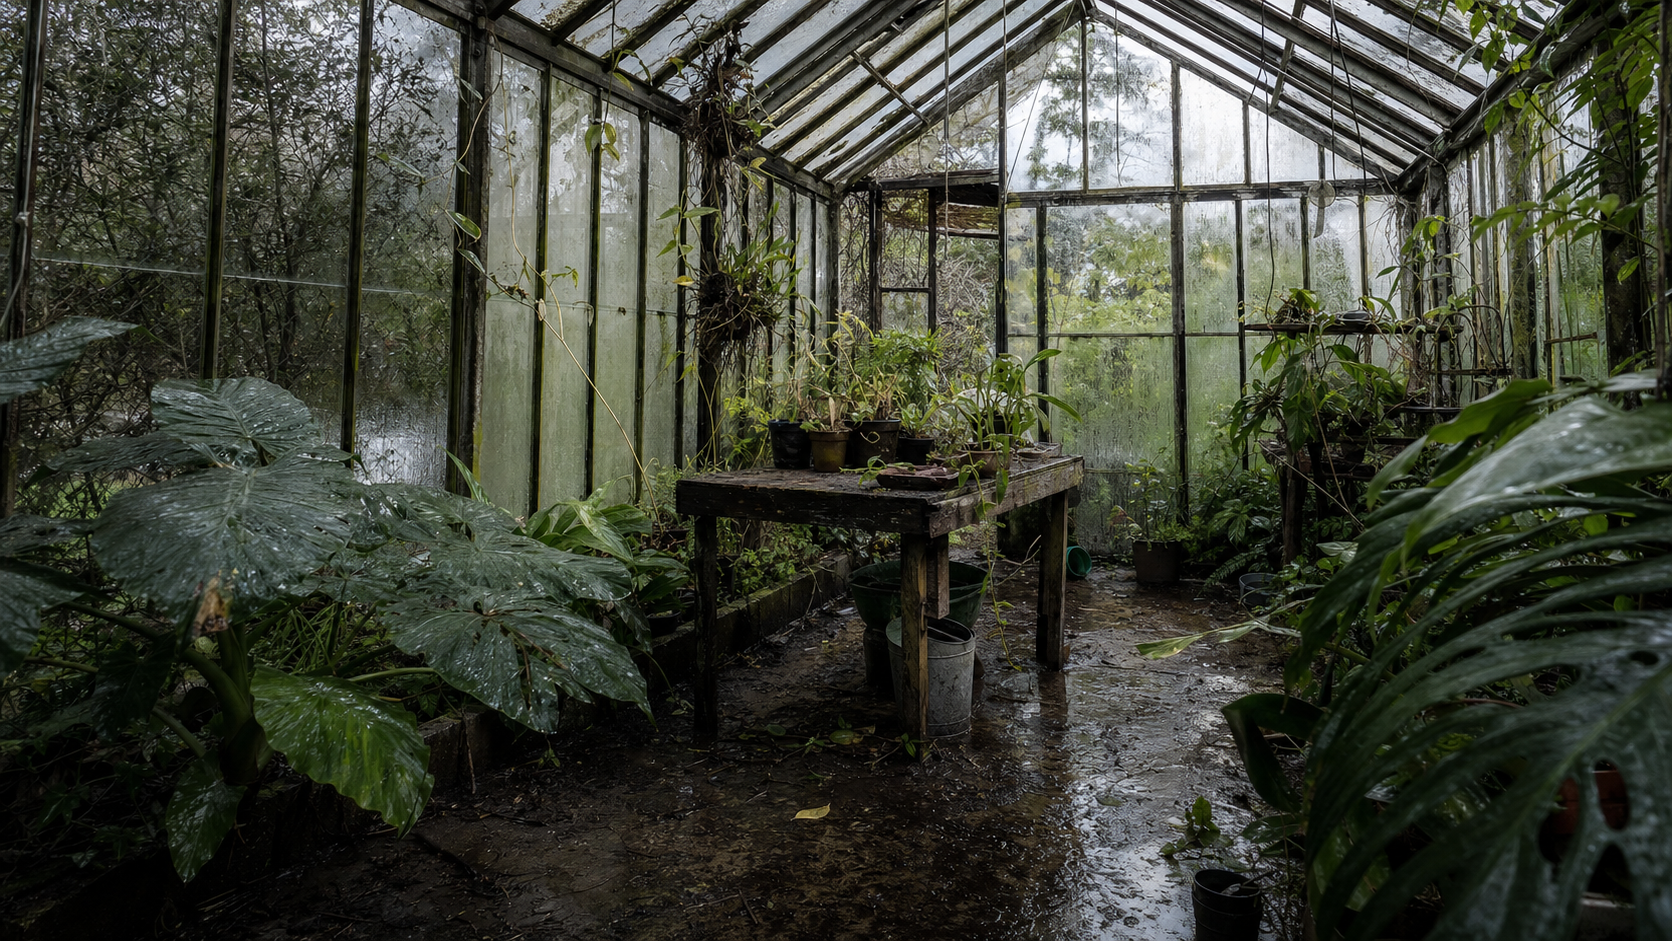
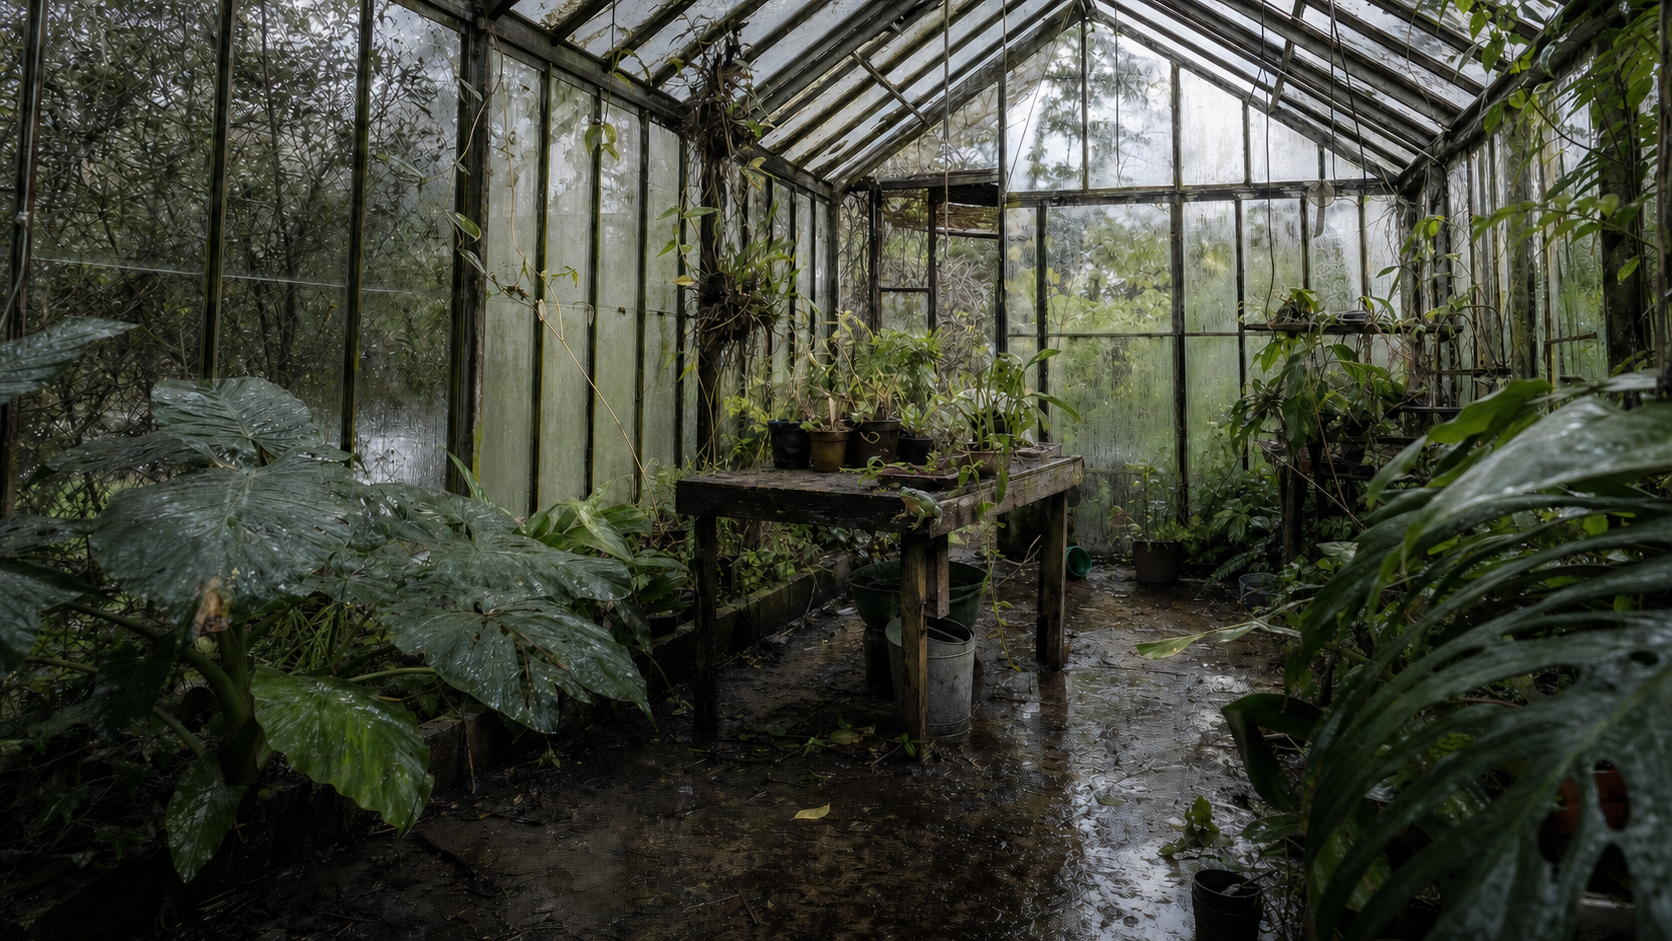
Animate the Living Photograph scene

diff --git a/src/main.rs b/src/main.rs
@@ -582,6 +582,51 @@ fn pacing_delay(limit: FrameLimit, elapsed: Duration) -> Option<Duration> {
     limit.interval()?.checked_sub(elapsed)
 }
 
+fn soft_ellipse(point: Pos2, center: Pos2, radius: Vec2) -> f32 {
+    let distance =
+        ((point.x - center.x) / radius.x).powi(2) + ((point.y - center.y) / radius.y).powi(2);
+    (1.0 - distance).clamp(0.0, 1.0).powi(2)
+}
+
+fn living_photo_plant_mask(point: Pos2) -> f32 {
+    soft_ellipse(point, Pos2::new(0.16, 0.56), Vec2::new(0.25, 0.28))
+        .max(soft_ellipse(
+            point,
+            Pos2::new(0.89, 0.54),
+            Vec2::new(0.24, 0.3),
+        ))
+        .max(soft_ellipse(
+            point,
+            Pos2::new(0.53, 0.43),
+            Vec2::new(0.2, 0.18),
+        ))
+}
+
+fn living_photo_glass_mask(point: Pos2) -> f32 {
+    soft_ellipse(point, Pos2::new(0.69, 0.27), Vec2::new(0.3, 0.29)).max(soft_ellipse(
+        point,
+        Pos2::new(0.35, 0.27),
+        Vec2::new(0.1, 0.28),
+    ))
+}
+
+fn studio_image_position(rect: Rect, uv: Rect, source: Pos2) -> Pos2 {
+    rect.min
+        + Vec2::new(
+            (source.x - uv.min.x) / uv.width(),
+            (source.y - uv.min.y) / uv.height(),
+        ) * rect.size()
+}
+
+fn hash01(value: f32) -> f32 {
+    (value.sin() * 43_758.547).fract().abs()
+}
+
+fn rare_bird_progress(time: f32) -> Option<f32> {
+    let phase = (time - 37.0).rem_euclid(53.0);
+    (phase < 2.4).then_some(phase / 2.4)
+}
+
 fn visual_index_for_key(key: egui::Key) -> Option<usize> {
     match key {
         egui::Key::Num1 => Some(0),
@@ -1986,17 +2031,150 @@ impl VisualizerApp {
             ),
             Vec2::new(uv_width, uv_height),
         );
-        let light = (0.82 + energy * layer.reactivity * 0.18).clamp(0.0, 1.0);
-        painter.image(
-            image.texture.id(),
-            rect,
-            uv,
-            Color32::from_rgba_unmultiplied(
-                (255.0 * light) as u8,
-                (255.0 * light) as u8,
-                (255.0 * light) as u8,
-                (255.0 * layer.opacity.clamp(0.0, 1.0)) as u8,
-            ),
+        let time = self.started.elapsed().as_secs_f32();
+        let motion = layer.reactivity;
+        let mut mesh = egui::Mesh::with_texture(image.texture.id());
+        const COLUMNS: u32 = 24;
+        const ROWS: u32 = 14;
+        for row in 0..=ROWS {
+            for column in 0..=COLUMNS {
+                let point = Vec2::new(column as f32 / COLUMNS as f32, row as f32 / ROWS as f32);
+                let mut source = uv.min + point * uv.size();
+                let plants = living_photo_plant_mask(source);
+                let table = soft_ellipse(source, Pos2::new(0.54, 0.57), Vec2::new(0.19, 0.13));
+                let frog = soft_ellipse(source, Pos2::new(0.555, 0.545), Vec2::new(0.055, 0.045));
+                source.x += plants
+                    * self.features.mid
+                    * motion
+                    * 0.0024
+                    * (time * 0.75 + source.y * 11.0).sin();
+                source.y += table * self.features.low * motion * 0.0008 * (time * 3.0).sin();
+                source.y +=
+                    frog * (0.00035 + self.features.rms * motion * 0.0011) * (time * 1.7).sin();
+                let cloud = living_photo_glass_mask(source)
+                    * (time * 0.07 + source.x * 8.0).sin()
+                    * self.features.low
+                    * motion;
+                let light = (0.84 + energy * motion * 0.12 + cloud * 0.035).clamp(0.68, 1.0);
+                mesh.vertices.push(egui::epaint::Vertex {
+                    pos: rect.min + point * rect.size(),
+                    uv: source,
+                    color: Color32::from_rgba_unmultiplied(
+                        (255.0 * light) as u8,
+                        (255.0 * light) as u8,
+                        (255.0 * light) as u8,
+                        (255.0 * layer.opacity.clamp(0.0, 1.0)) as u8,
+                    ),
+                });
+            }
+        }
+        for row in 0..ROWS {
+            for column in 0..COLUMNS {
+                let top_left = row * (COLUMNS + 1) + column;
+                let bottom_left = top_left + COLUMNS + 1;
+                mesh.indices.extend_from_slice(&[
+                    top_left,
+                    bottom_left,
+                    top_left + 1,
+                    top_left + 1,
+                    bottom_left,
+                    bottom_left + 1,
+                ]);
+            }
+        }
+        painter.add(egui::Shape::mesh(mesh));
+        self.draw_living_photo_weather(painter, rect, uv, layer.opacity, time);
+        self.draw_living_photo_wildlife(painter, rect, uv, layer.opacity, time);
+    }
+
+    fn draw_living_photo_weather(
+        &self,
+        painter: &egui::Painter,
+        rect: Rect,
+        uv: Rect,
+        opacity: f32,
+        time: f32,
+    ) {
+        let rain = (0.15 + self.features.high * 0.85) * opacity;
+        for index in 0..36 {
+            let seed = hash01(index as f32 * 17.31);
+            let source = Pos2::new(
+                0.27 + hash01(index as f32 * 8.13) * 0.67,
+                0.05 + (seed + time * (0.012 + self.features.high * 0.026)).fract() * 0.55,
+            );
+            if living_photo_glass_mask(source) < 0.35 {
+                continue;
+            }
+            let start = studio_image_position(rect, uv, source);
+            let end =
+                studio_image_position(rect, uv, source + Vec2::new(-0.002, 0.025 + seed * 0.035));
+            painter.line_segment(
+                [start, end],
+                Stroke::new(
+                    0.45 + seed * 0.65,
+                    Color32::from_rgba_unmultiplied(195, 215, 212, (rain * 58.0) as u8),
+                ),
+            );
+        }
+    }
+
+    fn draw_living_photo_wildlife(
+        &self,
+        painter: &egui::Painter,
+        rect: Rect,
+        uv: Rect,
+        opacity: f32,
+        time: f32,
+    ) {
+        let insect_alpha = opacity * (0.22 + self.features.high * 0.55);
+        for index in 0..7 {
+            let seed = hash01(index as f32 * 29.7);
+            let center = Pos2::new(
+                0.34 + seed * 0.43,
+                0.35 + hash01(index as f32 * 11.2) * 0.28,
+            );
+            let source = center
+                + Vec2::new(
+                    (time * (0.45 + seed * 0.5) + seed * 9.0).sin() * 0.012,
+                    (time * (0.62 + seed * 0.4) + seed * 13.0).cos() * 0.008,
+                ) * (0.35 + self.features.high);
+            let point = studio_image_position(rect, uv, source);
+            if rect.contains(point) {
+                painter.circle_filled(
+                    point,
+                    0.7 + self.features.high * 0.8,
+                    Color32::from_rgba_unmultiplied(35, 31, 18, (insect_alpha * 150.0) as u8),
+                );
+            }
+        }
+
+        let Some(progress) = rare_bird_progress(time) else {
+            return;
+        };
+        let source = Pos2::new(
+            0.61 + progress * 0.22,
+            0.24 - (progress * std::f32::consts::PI).sin() * 0.025,
+        );
+        let point = studio_image_position(rect, uv, source);
+        if !rect.contains(point) {
+            return;
+        }
+        let size = rect.width() * 0.0065;
+        let flap = (time * (8.0 + self.features.high * 12.0)).sin() * size;
+        let color = Color32::from_rgba_unmultiplied(
+            35,
+            42,
+            37,
+            (opacity * (42.0 + self.features.transient * 38.0)) as u8,
+        );
+        painter.circle_filled(point, size * 0.45, color);
+        painter.line_segment(
+            [point, point + Vec2::new(-size, -flap.abs())],
+            Stroke::new(size * 0.35, color),
+        );
+        painter.line_segment(
+            [point, point + Vec2::new(size, -flap.abs())],
+            Stroke::new(size * 0.35, color),
         );
     }
 
@@ -2769,6 +2947,13 @@ impl VisualizerApp {
                 ))
                 .small()
                 .color(Color32::from_rgb(145, 170, 190)),
+            );
+            ui.label(
+                egui::RichText::new(
+                    "Living Photo · mids move foliage · bass shifts structure · treble drives rain and insects · rare bird",
+                )
+                .small()
+                .color(Color32::from_rgb(125, 165, 150)),
             );
         }
         ui.label(
@@ -3922,9 +4107,11 @@ mod tests {
     use super::{
         ColorSystem, DefaultSwitchTiming, Features, FrameLimit, FrameStats, InteractionState,
         LatencyStats, MAX_SOUND_ZONES, OnsetStats, PalettePreset, PresentationMode, SourceKind,
-        VisualHistory, callback_is_new, default_needs_recovery, lerp_color, pacing_delay,
-        status_hint, visual_index_for_key,
+        VisualHistory, callback_is_new, default_needs_recovery, lerp_color,
+        living_photo_plant_mask, pacing_delay, rare_bird_progress, status_hint,
+        visual_index_for_key,
     };
+    use eframe::egui::Pos2;
     use std::time::{Duration, Instant};
 
     #[test]
@@ -4064,6 +4251,16 @@ mod tests {
         assert_eq!(stats.count, 1);
         assert_eq!(stats.last, Some(started));
         assert_eq!(stats.per_minute(started + Duration::from_secs(60)), 1.0);
+    }
+
+    #[test]
+    fn living_photo_masks_and_rare_bird_stay_bounded() {
+        assert!(living_photo_plant_mask(Pos2::new(0.16, 0.56)) > 0.9);
+        assert_eq!(living_photo_plant_mask(Pos2::new(0.5, 0.9)), 0.0);
+        assert_eq!(rare_bird_progress(10.0), None);
+        assert_eq!(rare_bird_progress(37.0), Some(0.0));
+        assert!(rare_bird_progress(38.2).is_some());
+        assert_eq!(rare_bird_progress(40.0), None);
     }
 
     #[test]

diff --git a/src/studio.rs b/src/studio.rs
@@ -140,12 +140,16 @@ pub struct StudioState {
 
 impl Default for StudioState {
     fn default() -> Self {
+        let mut layers = StudioLayerKind::LIVING_PHOTOGRAPH
+            .into_iter()
+            .map(StudioLayer::living_photograph)
+            .collect::<Vec<_>>();
+        for layer in layers.iter_mut().skip(1) {
+            layer.visible = false;
+        }
         Self {
-            layers: StudioLayerKind::LIVING_PHOTOGRAPH
-                .into_iter()
-                .map(StudioLayer::living_photograph)
-                .collect(),
-            selected: 1,
+            layers,
+            selected: 0,
             image: None,
             notice: None,
         }
@@ -249,6 +253,8 @@ mod tests {
     fn layer_stack_is_bounded_and_reorderable() {
         let mut studio = StudioState::default();
         assert_eq!(studio.layers.len(), 3);
+        assert!(studio.layers[0].visible);
+        assert!(studio.layers[1..].iter().all(|layer| !layer.visible));
         assert!(!studio.add(StudioLayerKind::Image));
         assert!(studio.add(StudioLayerKind::Preset));
         assert_eq!(studio.layers[0].kind, StudioLayerKind::Preset);

diff --git a/PROJECT_TRUTH.md b/PROJECT_TRUTH.md
@@ -58,6 +58,9 @@ This document records verified project state. Planned behavior belongs in the [R
 - An experimental Studio visual composites a bounded stack of up to eight Image, GPU Preset, Waveform, and Particles layers. It permits one opaque GPU-preset base, one local image, and repeated host-painted waveform or particle layers. Layers expose visibility, ordering where supported, opacity where supported, audio-band routing, reactivity, scale, and Normal/Add blending where supported.
 - Studio accepts local PNG, JPEG, and WebP images through native desktop drag and drop. The decoder bounds file size to 64 MiB, image edges to 8192 pixels, and allocation to 256 MiB before creating a host-owned egui texture.
 - The default `Living Photograph` composition loads one original project-owned rainy-greenhouse image and layers the existing waveform and particle instruments above restrained audio-reactive crop and exposure motion. Asset provenance and the generation prompt are recorded beside the image.
+- The greenhouse photograph now includes one clearly visible, photoreal tree frog integrated into the wet table scene. The default keeps its optional waveform and particle layers disabled so the photographic treatment remains primary.
+- The `Living Photograph` image layer uses one bounded 24×14 host-painted image mesh. Mid energy produces anchored foliage motion, low energy produces subpixel table motion and slow cloud exposure, and RMS produces a localized breathing motion around the frog without adding a second renderer or image pipeline.
+- Thirty-six bounded photo-space rain streaks and seven bounded insects respond to treble energy. A muted bird silhouette crosses the greenhouse glass for 2.4 seconds on a deterministic 53-second interval, with wing motion accelerated by treble and visibility influenced by transient strength.
 - Analysis now also measures spectral centroid, 85% spectral rolloff, spectral flatness, crest factor, and positive spectral flux.
 - A local Visual Director combines those measurements with a bounded 12-second energy/transient history to derive dynamics, onset density, movement, dominant band, and quiet/impact/building/receding/sustained passage state.
 - Ten creative controls and 17 capture choices drive structured subject/environment/era/event/scale/weather/composition/light candidates. Weighted history similarity prioritizes concept novelty over cosmetic variation; two or three plausible photographic imperfections, contextual cliché restraints, a deterministic preflight critique, and a generation-ready prompt follow. A versioned local brief history preserves generation metadata, prompts, and novelty records across app restarts; explicit Markdown export records the full brief, Visual DNA, and preflight scores. It makes no API request.
@@ -104,6 +107,8 @@ This document records verified project state. Planned behavior belongs in the [R
 - The rebuilt debug executable and a fresh extracted release displayed the repository-owned waveform mark in the Windows title bar at its native small-icon size.
 - Named Scope, Particles, and Preset controls remained on one row at 1280×720 and the 800×500 minimum. Mouse selection changed to Particle Forge, and repeated Windows system sounds visibly drove its bounded frequency trails without reopening capture.
 - The rebuilt development Studio was visually inspected at 1280×720 and 3440×1440 fullscreen on the NVIDIA adapter. The original greenhouse image rendered as a coherent photographic base while waveform and particle layers responded to live system audio; drag changed the camera crop, wheel input changed zoom, and fullscreen returned to windowed without losing capture.
+- The revised photoreal `Living Photograph` was visually inspected in a 1280×720 window and at 3440×1440 fullscreen while system capture reported `LIVE`. The integrated frog remained clearly readable at the table edge, the photographic base remained unobstructed with the waveform and particle layers disabled by default, and the Instrument panel exposed the three optional layers plus the nature/weather/wildlife routing note. Fullscreen returned to windowed normally.
+- The wildlife revision completed one isolated release package cycle under `dist\living-photo-smoke-20260728`. The collector resolved license material for 206 external target packages, the 11,052,067-byte ZIP passed every checksum after fresh extraction, and the packaged 3,071,373-byte image matched the revised asset. The fresh extracted executable opened system loopback, reported `LIVE`, and rendered the unobstructed Studio photograph with the integrated frog before closing normally.
 - A GPU Preset layer was inserted below the photographic image, image opacity was reduced to expose the base, and the layer selector switched live from Aurora Flow to Neon Horizon. Both presets remained visible through the photograph while waveform and particle layers continued above them.
 - During the same Studio run, system capture transitioned to `SILENT`, the waveform settled to a near-flat line, the image and restrained preset state remained readable, and subsequent audio returned the player to `LIVE` without reopening capture.
 - The revised release package completed once on 2026-07-28 in an isolated `dist` subfolder and collected license material for 206 target-resolved external packages. Its 11,228,080-byte ZIP extracted into a fresh directory, every staged SHA-256 entry matched, the original Studio image and provenance file were present, and staged text contained no development-repository path.

diff --git a/ROADMAP.md b/ROADMAP.md
@@ -26,7 +26,7 @@ Windows loopback and microphone enumeration/selection, automatic default-device 
 
 The current development tree expands that proven three-direction baseline to two host visuals and eight format-2 GPU presets. It adds bounded sound zones, camera interaction, per-band color/material routing, 10–35 grouped sliders per GPU preset, named host-owned `.tvscene` snapshots, the 35-control procedural TheVisualCityScape flagship, a visible per-mode Instrument panel, and a local Visual Director brief composer. All eight shaders compiled in both the live development player and the fresh extracted package on the NVIDIA adapter. Named scene save, restart discovery, and cross-mode restore passed a live isolated-directory check; the expanded portable package snapshot passed its build, staged/fresh checksum, discovery, live-capture, preset-rendering, onset-telemetry, and default-disabled-plugin smoke on the development host. The later Feedback Tunnel timing/material and Solar Bloom material refinements remain development-tree-only pending a future approved package cycle. Clean-machine package validation remains open. Paid image generation is not connected.
 
-An experimental Studio slice now adds a bounded Image/GPU Preset/Waveform/Particles layer stack, native local-image drop, and one original photorealistic `Living Photograph` greenhouse composition. The composition, layer controls, live/silent behavior, preset switching, camera interaction, windowed rendering, and 3440×1440 fullscreen rendering passed a development-host visual check. One revised package cycle passed build, fresh extraction, checksums, beside-executable asset/preset discovery, live capture, Studio rendering, and packaged GPU-layer insertion on the same host. Clean-machine validation remains open. Ten further Studio modes are specified in [Interactive Modes](docs/INTERACTIVE_MODES.md); they remain planned.
+An experimental Studio slice now adds a bounded Image/GPU Preset/Waveform/Particles layer stack, native local-image drop, and one original photorealistic `Living Photograph` greenhouse composition. Its bounded image mesh maps mids to anchored foliage, bass to restrained structure and cloud motion, treble to rain and insects, and RMS to a visible frog's localized breathing; a muted bird crosses rarely. Optional graphic layers remain available but default off to preserve realism. The composition, layer controls, live/silent behavior, preset switching, camera interaction, windowed rendering, and 3440×1440 fullscreen rendering passed development-host visual checks. The wildlife revision also passed one isolated package build, fresh extraction and checksum check, live system-capture launch, beside-executable asset discovery, and packaged Studio render on the same host. Clean-machine validation remains open. Ten further Studio modes are specified in [Interactive Modes](docs/INTERACTIVE_MODES.md); they remain planned.
 
 ## Milestone 2 — Windows audio foundation
 

diff --git a/assets/README.md b/assets/README.md
@@ -1,9 +1,13 @@
 # Bundled image provenance
 
-`living-photograph-greenhouse.png` is an original project asset generated on 2026-07-28 with OpenAI's built-in image-generation tool for the `Living Photograph` Studio prototype. No external photograph, logo, trademark, or artist reference was supplied.
+`living-photograph-greenhouse.png` is an original project asset generated on 2026-07-28 and revised with OpenAI's built-in image-generation tool for the `Living Photograph` Studio prototype. No external photograph, logo, trademark, or artist reference was supplied.
 
 Prompt:
 
 > A hyperreal, believable wide photograph of an old glass greenhouse immediately after a rainstorm, with wet iron frames, fogged and cracked panes, dense ordinary plants, a muddy floor, small puddles, hanging condensation, and one worn wooden worktable; no people. Photorealistic environmental documentary photography, 16:9 landscape, asymmetric off-center perspective through multiple depth planes, physically plausible overcast daylight, real wear, rust, dirt, algae, wet glass, peeling paint, water residue, imperfect pavement, and wood grain. Preserve useful dark and light regions for reactive overlays. No text, signage, logos, trademarks, watermark, neon lighting, fantasy objects, symmetrical poster composition, excessive bloom, fake volumetric fog, or plastic-clean surfaces.
+
+Revision prompt:
+
+> Edit this exact photorealistic rainy greenhouse photograph non-destructively. Preserve the camera position, 16:9 framing, greenhouse structure, panes, plants, muddy floor, worn table, all object placement, wet overcast lighting, natural colors, documentary realism, and image resolution as closely as possible. Add exactly one clearly visible, scene-appropriate real tree frog perched naturally on the near front-right edge of the worn wooden worktable, facing slightly toward camera, about palm-sized relative to the pots. The frog should be unmistakable but not oversized, with anatomically correct limbs and toes, subtle natural green-brown coloration, wet skin, physically accurate contact shadow, reflections, depth of field, and lighting matching the scene. Add no other animals, no insects, no bird, no fantasy elements, no text, no watermark, no dramatic spotlight, no saturated colors, and no compositional rearrangement. The result must still look like an unstaged real environmental photograph.
 
 The image is distributed as original project content under the repository's Apache-2.0 license.
